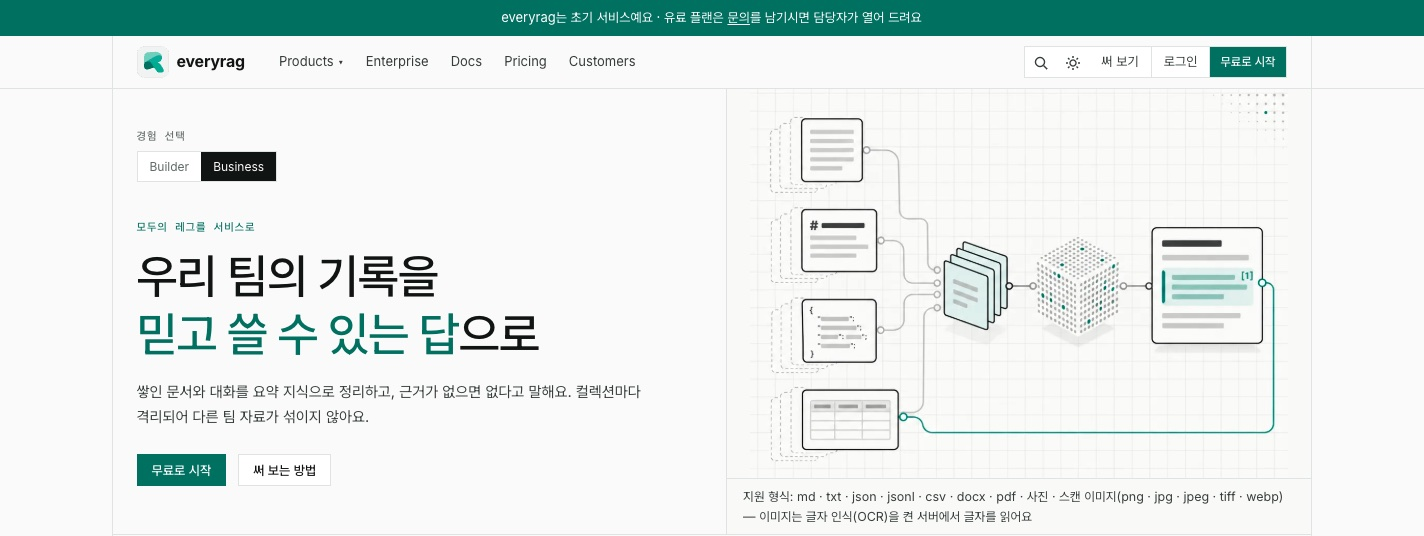
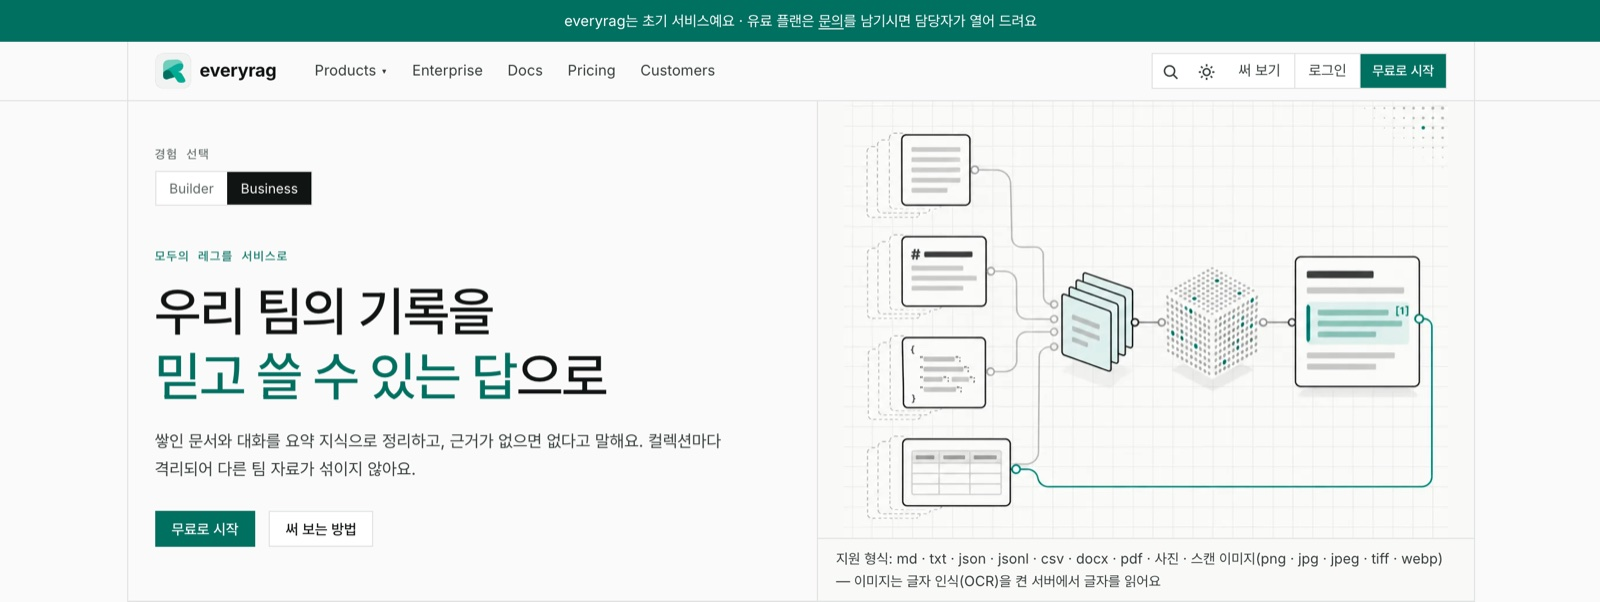
everyrag 장에서 확인 안 된 두 문장을 빼고 머리말 그림을 선명하게 한다 (pages 102/102 · verify 343)
교차검토에서 나온 것:
- 화면 파일에 박아 둔 「개발팀이 있다면 API 와 MCP 주소로 … 바로 붙일 수 있습니다」를 뺐다. 화면 파일에 글을
  적지 않는 규칙을 어겼고, 서비스 사이트 문장(「주소가 자동으로 생긴다」)보다 셌다.
- 「사진과 스캔 이미지까지 올릴 수 있습니다」를 뺐다. 서비스 사이트는 「글자 인식을 켠 서버에서」라는 단서를
  달았고, 운영 서버에서 켜져 있는지 확인한 적이 없다.
- 머리말 그림이 1배(1424px)였다. 2배로 다시 찍어 폭 1600 으로 줄였다(1600×602).
- 낡은 주석 둘. check-pages 바닥 1763 → 1695(실측, 문장 둘이 빠졌다).

diff --git a/web/app/(site)/page/service/everyrag/content.ts b/web/app/(site)/page/service/everyrag/content.ts
@@ -5,7 +5,8 @@
  *
  * 출처: 운영 중인 서비스 사이트 studio.everyrag.com(2026-11-12 확인)의 첫 장(Business 쪽 문장) · Assistant · Enterprise 장.
  * 거기 있는 글을 이 사이트의 합니다체로 옮겼다. 요금 숫자와 「준비 중」으로 적힌 것(Plugin · CLI · 온라인 결제)은
- * 싣지 않았다. 화면 둘은 그 사이트의 공개 장을 1440 폭으로 찍은 것. 우리가 쓴 문장은 everyragContent.ts 머리말에.
+ * 싣지 않았다. 화면 둘은 그 사이트의 공개 장을 2배 해상도로 찍은 것(머리말 화면은 폭 1600 으로 줄였다). 사진·스캔 이미지 올리기는
+ * 그 사이트가 「글자 인식을 켠 서버에서」라는 단서를 달아 둔 것이라 싣지 않았다. 우리가 쓴 문장은 everyragContent.ts 머리말에.
  */
 import { ER_AFTER, ER_BEFORE } from '../everyragContent'
 import { compareOf, imageOf, type EveryragContent } from '../../pageContentParts'
@@ -42,8 +43,8 @@ export const EVERYRAG_DEFAULT: EveryragContent = {
       image: imageOf({
         src: '/screens/everyrag-home.jpg',
         alt: 'everyrag 서비스 첫 화면 — 「우리 팀의 기록을 믿고 쓸 수 있는 답으로」 제목과 무료로 시작 단추, 문서와 표가 조각으로 나뉘어 정리되고 인용이 붙은 답으로 이어지는 그림',
-        w: 1424,
-        h: 536,
+        w: 1600,
+        h: 602,
       }),
       tag: 'everyrag · 사내 문서 AI',
       url: 'studio.everyrag.com',
@@ -68,7 +69,7 @@ export const EVERYRAG_DEFAULT: EveryragContent = {
   extra: {
     kicker: '시작하기',
     title: '올리고, 정리되고, 물어봅니다',
-    desc: '문서(docx · pdf · txt)와 표(csv), 대화 기록, 사진과 스캔 이미지까지 올릴 수 있습니다.',
+    desc: '문서(docx · pdf · txt)와 표(csv), 대화 기록을 올릴 수 있습니다.',
   },
   steps: [
     { t: '자료 올리기', d: '파일을 끌어다 놓으면 됩니다. 나누고 정리하는 일은 everyrag 가 합니다.' },

diff --git a/web/app/(site)/page/service/everyrag/page.tsx b/web/app/(site)/page/service/everyrag/page.tsx
@@ -18,7 +18,7 @@ import { EVERYRAG_DEFAULT, EVERYRAG_KEY, EVERYRAG_URL } from './content'
  *  2) 전/후 — 직접 만들던 대화(어두운 카드) / 서비스 화면(밝은 카드) + ✕ 셋 · ✓ 셋
  *  3) 시작하기 — 단계 카드 셋(올리기 · 자동 요약 · 묻고 확인하기)
  * 같은 날 사용자: 「너무 개발자용 같다」 — API 키 · 임베딩 · curl 코드를 빼고, 문서를 찾는 사람의 말로 다시 썼다
- * (서비스 사이트의 Business 쪽 문장). 개발팀용 연동은 맨 끝 한 줄로만 남겼다.
+ * (서비스 사이트의 Business 쪽 문장). 개발팀용 연동 얘기는 싣지 않는다 — 「everyrag 바로가기」로 넘어가면 문서가 있다.
  * 머리말 둘째 단추는 서비스로 가는 바깥 링크다. 글은 관리 화면의 페이지 글, 못 읽으면 content.ts 기본 글.
  * 고객 사례 · 성능 수치는 없다 — 서비스 사이트가 「공개할 고객은 아직 없다」고 적어 둔 그대로라 싣지 않았다.
  */
@@ -81,7 +81,6 @@ export default async function Page() {
             {extra.title}
           </Statement>
           {c.steps.length > 0 && <Cols items={c.steps} />}
-          <p className="er_note" data-rv>개발팀이 있다면 API 와 MCP 주소로 사내 시스템이나 AI 에이전트에 바로 붙일 수 있습니다.</p>
         </section>
       </SolutionShell>
     </>

diff --git a/api/src/core/page/schema/intro-pages.schema.ts b/api/src/core/page/schema/intro-pages.schema.ts
@@ -325,7 +325,7 @@ export const CHAT_SCHEMA: PageSchema = {
 
 /* ── everyrag ─────────────────────────────────────────────── */
 
-/** 서비스 시연 장과 같은 짜임(머리말 · 요약 · 화면 판 · 시연 · 전/후 · 셋째 구역) + 머리말 둘째 단추 글 + 시작 단계 카드. 바깥 링크 주소와 시연 대화·코드는 web 의 코드다. */
+/** 서비스 시연 장과 같은 짜임(머리말 · 요약 · 화면 판 · 시연 · 전/후 · 셋째 구역) + 머리말 둘째 단추 글 + 시작 단계 카드. 바깥 링크 주소와 시연 대화는 web 의 코드다. */
 export const EVERYRAG_SCHEMA: PageSchema = {
   key: 'service-everyrag',
   label: 'everyrag',

diff --git a/web/app/(site)/page/service/everyragStyles.ts b/web/app/(site)/page/service/everyragStyles.ts
@@ -19,7 +19,6 @@ export const EVERYRAG_CSS = `
 #dvmax.mx_v4 .er_chat li.er_in { animation: mxPop .5s cubic-bezier(.22,.68,.24,1) both; }
 /* 전/후의 밝은 카드 — 채팅 예시 화면의 왼쪽 위부터 보인다. 좁은 화면에서는 잘리지 않게 높이를 푼다 */
 #dvmax.mx_v4 .er_light img { object-position: 0 0; }
-#dvmax.mx_v4 .er_note { margin: 40px 0 0; font-size: 15px; color: #4e5968; }
 @media (max-width: 720px) {
   #dvmax.mx_v4 .er_light { min-height: 0; padding: 20px 0 0 20px; }
   #dvmax.mx_v4 .er_light img { height: auto; }

diff --git a/web/scripts/check-pages.py b/web/scripts/check-pages.py
@@ -76,8 +76,9 @@ FLOORS: dict[str, tuple[int, int]] = {
     "/page/service/hangeon": (726, 1),
     # 2026-11-12 새 장. 만든 날의 실측(머리말 화면 + 전/후 화면 + 헤더·바닥 그림 둘). 같은 날 시연·전후·시작 코드
     # 짜임으로 다시 세워 1432/3 → 2482/4. 같은 날 사용자 「너무 개발자용 같다」 — 시작 코드(curl 9줄)와 API 용어를 빼고
-    # 도입 담당자 말로 다시 써서 2482 → 1763(실측). 구역 수는 그대로다.
-    "/page/service/everyrag": (1763, 4),
+    # 도입 담당자 말로 다시 써서 2482 → 1763(실측). 구역 수는 그대로다. 확인 안 된 두 문장(개발팀 연동 한 줄 ·
+    # 「사진과 스캔 이미지」)을 빼 1763 → 1695.
+    "/page/service/everyrag": (1695, 4),
     # 2026-09-28 사용자: 머리말 밑 요약 3열(제목·한 줄)을 틀에서 뺐다 — 본문 661 → 512(실측).
     "/page/service/growtok": (512, 2),
     # 2026-09-28 사용자: 머리말 밑 요약 3열(제목·한 줄)을 틀에서 뺐다 — 본문 799 → 664(실측).
